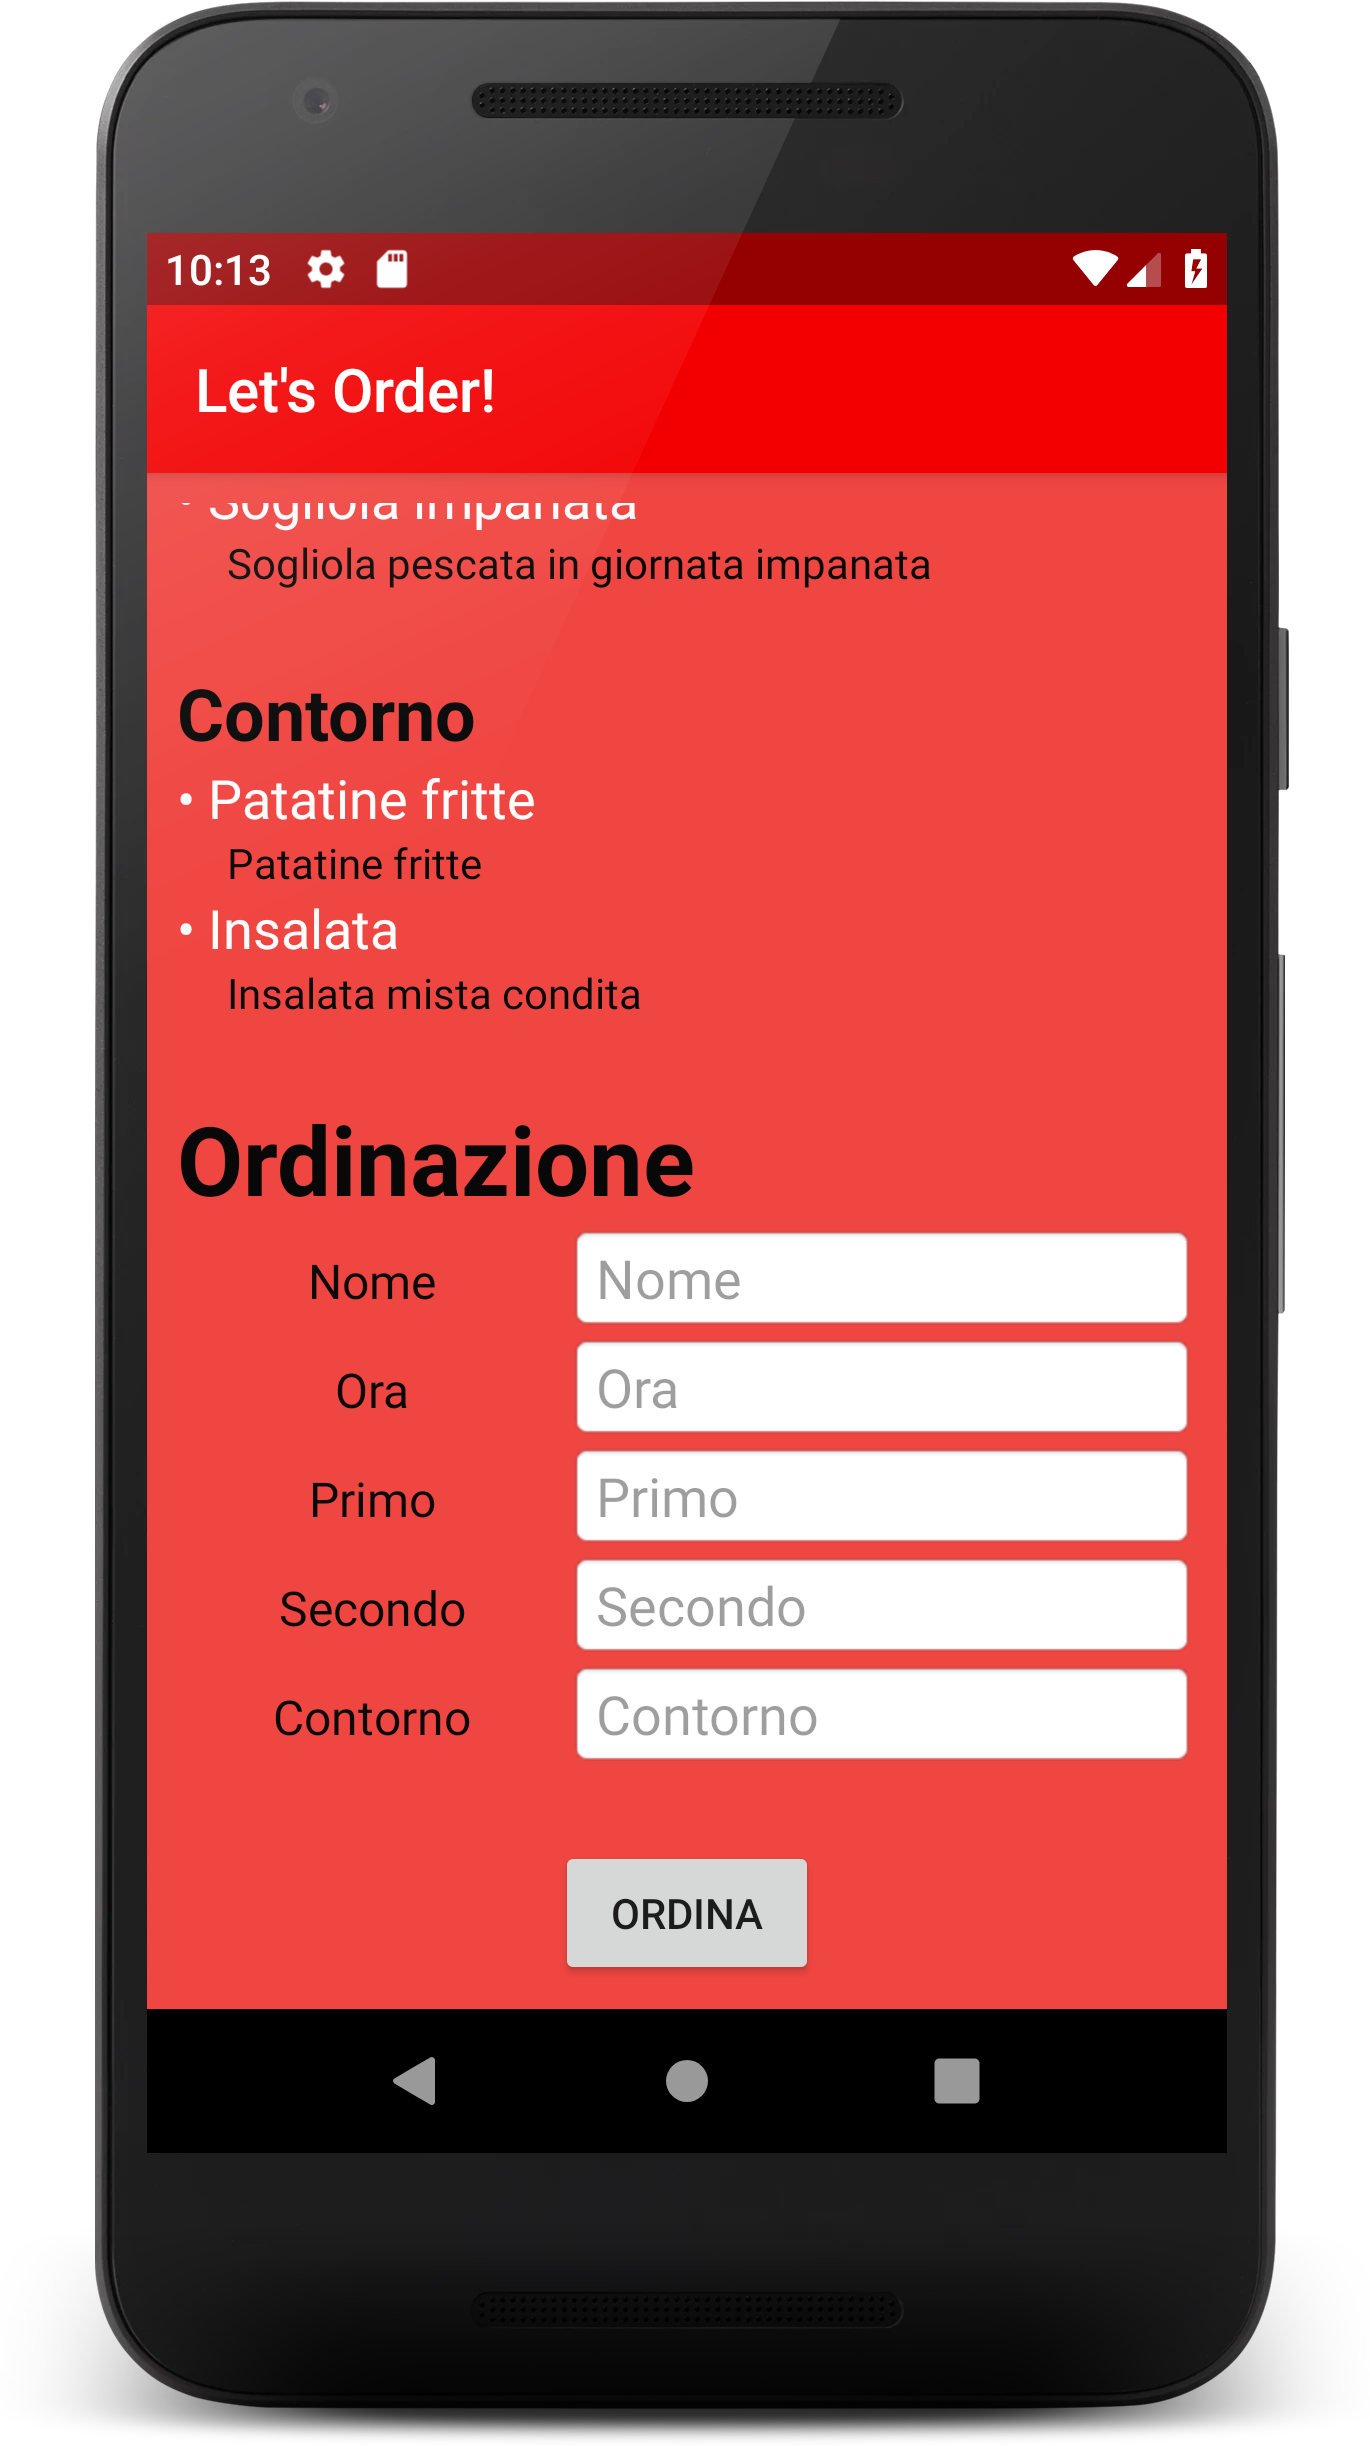
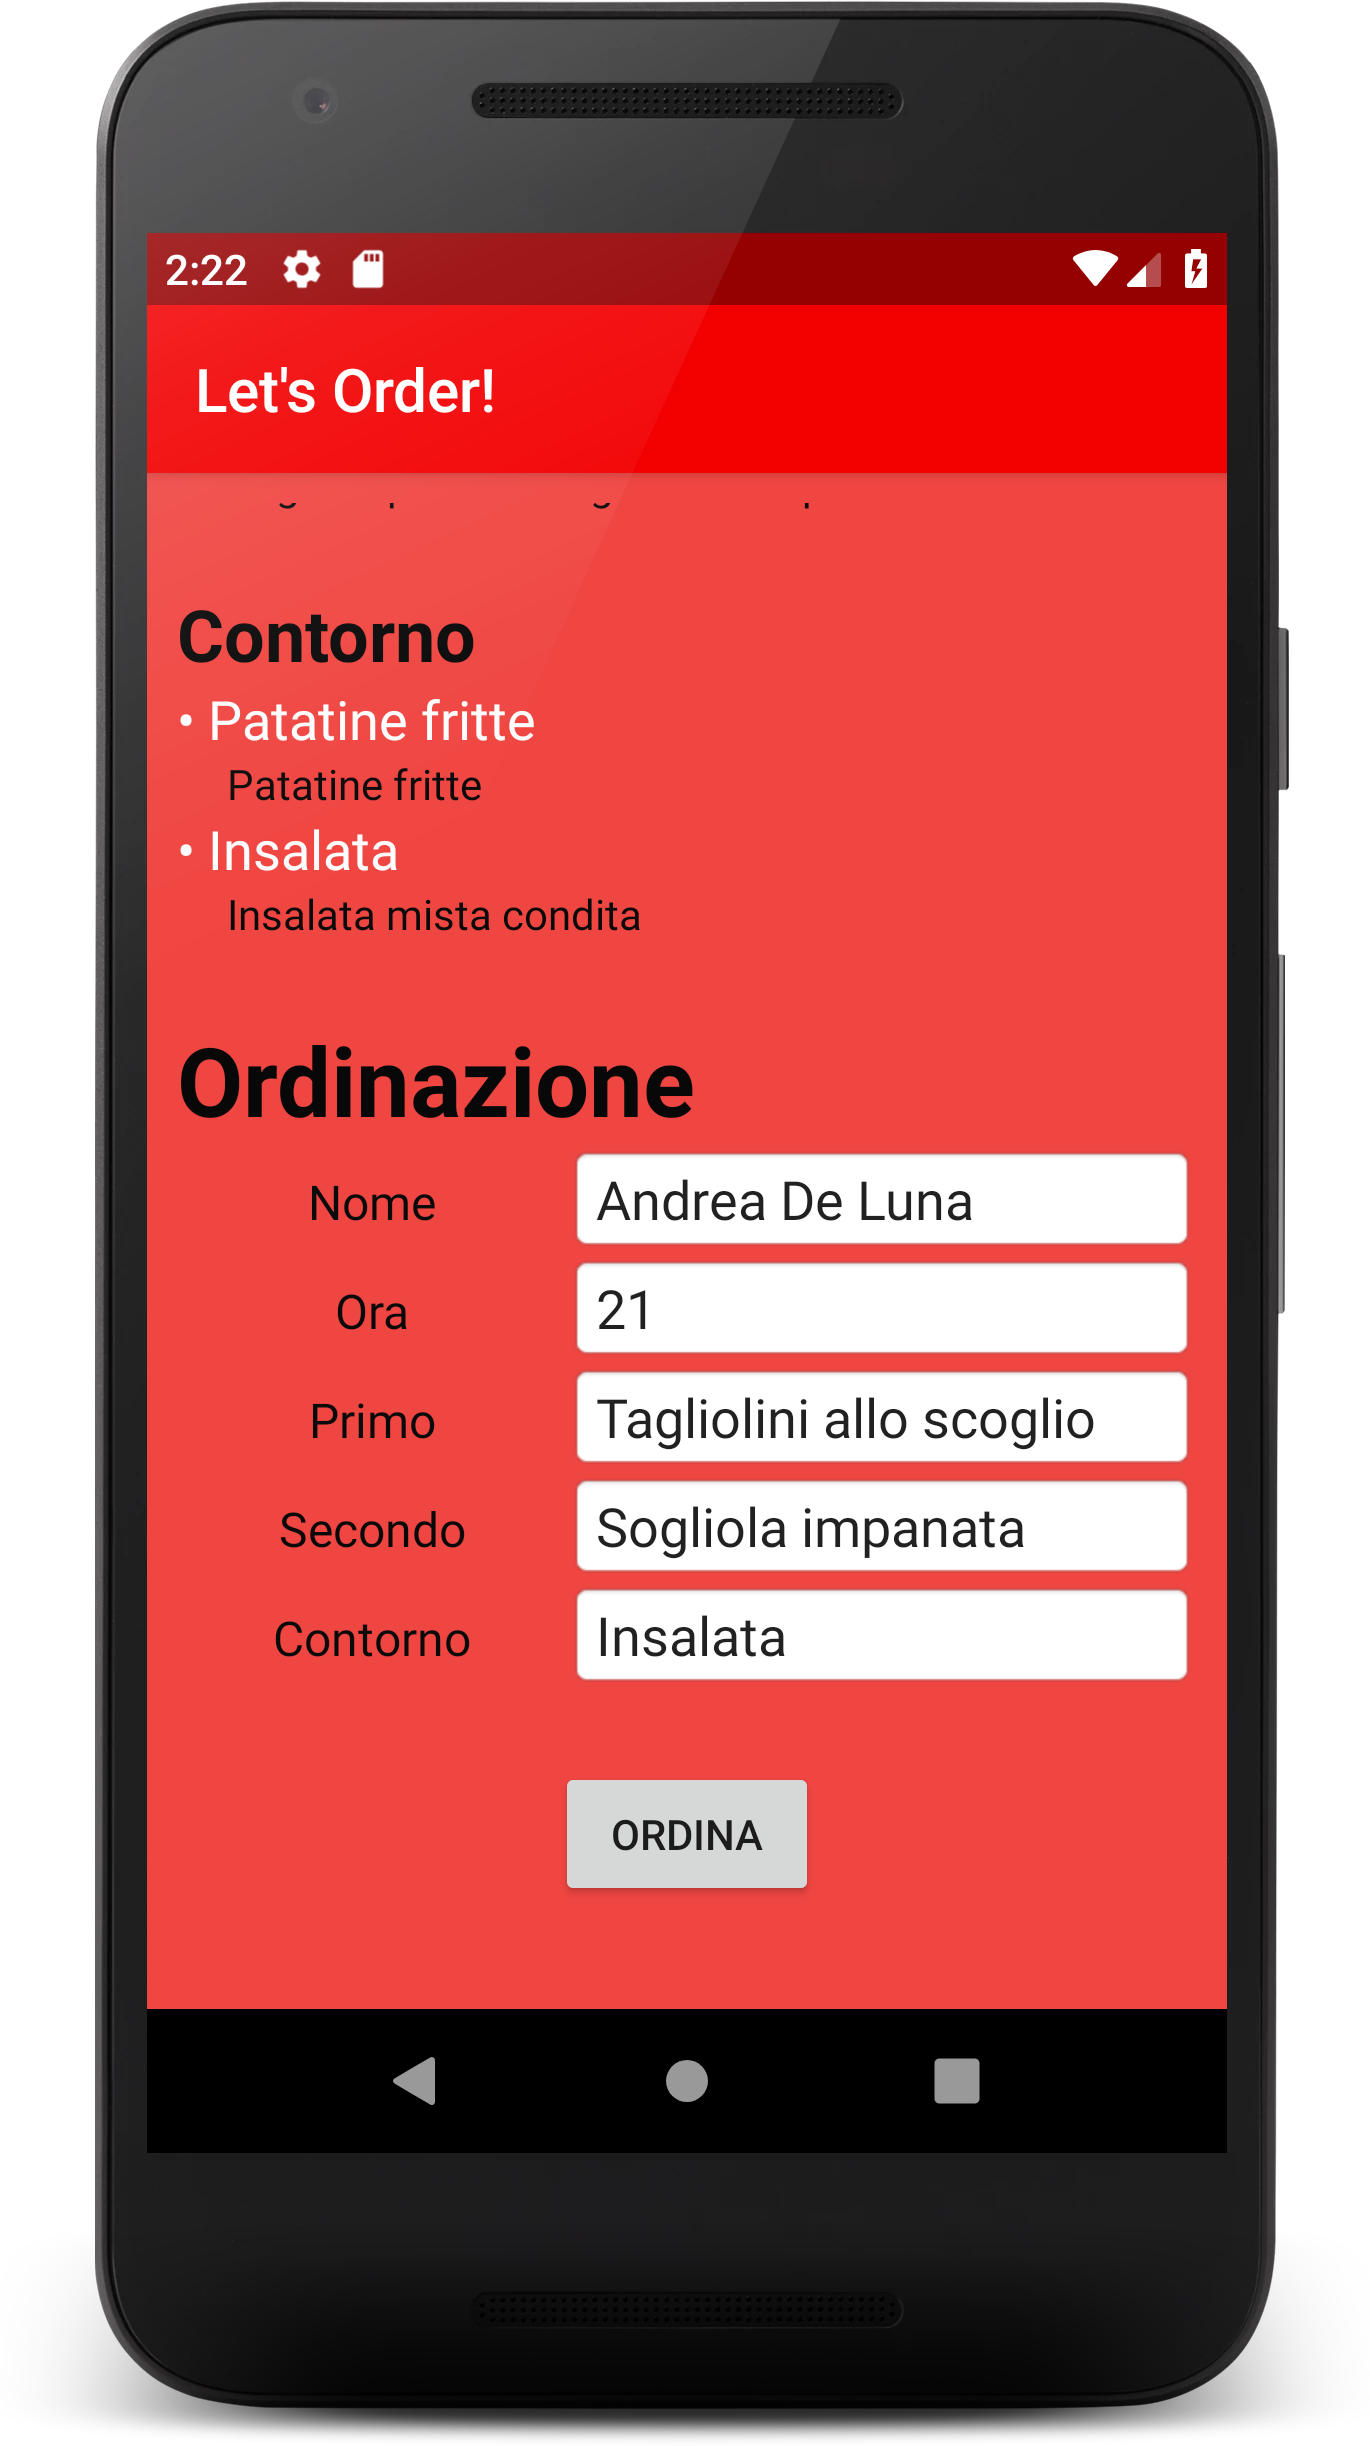
Implementato metodo POST dall'App all'API

Changed region(s): [[0.1226, 0.1864, 0.8891, 0.8078], [0.1226, 0.0932, 0.3066, 0.1243]]

diff --git a/LetsOrder/app/src/main/java/com/adeluna/letsorder/PrenotazioneActivity.java b/LetsOrder/app/src/main/java/com/adeluna/letsorder/PrenotazioneActivity.java
@@ -2,14 +2,29 @@ package com.adeluna.letsorder;
 
 import androidx.appcompat.app.AppCompatActivity;
 
+import android.content.Context;
 import android.content.Intent;
+import android.net.ConnectivityManager;
+import android.net.NetworkInfo;
+import android.os.AsyncTask;
 import android.os.Bundle;
 import android.util.Log;
 import android.view.View;
 import android.widget.EditText;
+import android.widget.Toast;
 
 import com.google.firebase.database.DatabaseReference;
 import com.google.firebase.database.FirebaseDatabase;
+
+import org.json.JSONException;
+import org.json.JSONObject;
+
+import java.io.BufferedWriter;
+import java.io.IOException;
+import java.io.OutputStream;
+import java.io.OutputStreamWriter;
+import java.net.HttpURLConnection;
+import java.net.URL;
 
 public class PrenotazioneActivity extends AppCompatActivity {
 
@@ -24,13 +39,26 @@ public class PrenotazioneActivity extends AppCompatActivity {
     EditText etSecondo;
     EditText etContorno;
 
+    String nome;
+    String luogo;
+
     @Override
     protected void onCreate(Bundle savedInstanceState) {
         super.onCreate(savedInstanceState);
         setContentView(R.layout.activity_prenotazione);
 
-        initFirebase();
+        Intent intent = getIntent();
+        nome = intent.getExtras().getString("nome");
+        luogo = intent.getExtras().getString("luogo");
+
+        nome = nome.replaceAll("\\s+","");
+        luogo = luogo.replaceAll("\\s+","");
+
+
         initUI();
+        initFirebase();
+
+        checkNetworkConnection();
 
     }
 
@@ -52,22 +80,95 @@ public class PrenotazioneActivity extends AppCompatActivity {
     }
 
 
-    public void inviaMessaggio(View view) {
+    // check network connection
+    public boolean checkNetworkConnection() {
+        ConnectivityManager connMgr = (ConnectivityManager)
+                getSystemService(Context.CONNECTIVITY_SERVICE);
 
-        Log.i(TAG, "Click su Invia Messaggio");
+        NetworkInfo networkInfo = connMgr.getActiveNetworkInfo();
+        boolean isConnected = false;
+        if (networkInfo != null && (isConnected = networkInfo.isConnected())) {
+            // show "Connected" & type of network "WIFI or MOBILE"
+            Log.i("Connessione","Connesso");
 
-        // Write a message to the database
+
+
+        } else {
+            // show "Not Connected"
+            Log.i("Connessione","Non connesso");
+        }
+
+        return isConnected;
+    }
+
+
+
+    private String httpPost(String myUrl) throws IOException, JSONException {
+        String result = "";
+
+        URL url = new URL(myUrl);
+
+        // 1. create HttpURLConnection
+        HttpURLConnection conn = (HttpURLConnection) url.openConnection();
+        conn.setRequestMethod("POST");
+        conn.setRequestProperty("Content-Type", "application/json; charset=utf-8");
+
+        // 2. build JSON object
+        JSONObject jsonObject = buidJsonObject();
+
+        // 3. add JSON content to POST request body
+        setPostRequestContent(conn, jsonObject);
+
+        // 4. make POST request to the given URL
+        conn.connect();
+
+        // 5. return response message
+        return conn.getResponseMessage()+"";
+
+    }
+
+
+    private class HTTPAsyncTask extends AsyncTask<String, Void, String> {
+        @Override
+        protected String doInBackground(String... urls) {
+            // params comes from the execute() call: params[0] is the url.
+            try {
+                try {
+                    return httpPost(urls[0]);
+                } catch (JSONException e) {
+                    e.printStackTrace();
+                    return "Error!";
+                }
+            } catch (IOException e) {
+                return "Unable to retrieve web page. URL may be invalid.";
+            }
+        }
+        // onPostExecute displays the results of the AsyncTask.
+        @Override
+        protected void onPostExecute(String result) {
+            Log.i("OnPostExecute", result);
+        }
+    }
+
+
+    public void send(View view) {
+
+        Toast.makeText(this, "Ordinazione presa in carico", Toast.LENGTH_SHORT).show();
 
         DatabaseReference myRef = mDatabase.getReference();
 
-        myRef.child("Utenti").child(etNome.getText().toString()).child("Nome").setValue(etNome.getText().toString());
-        myRef.child("Utenti").child(etNome.getText().toString()).child("Ora").setValue(etOra.getText().toString());
-        myRef.child("Utenti").child(etNome.getText().toString()).child("Primo").setValue(etPrimo.getText().toString());
-        myRef.child("Utenti").child(etNome.getText().toString()).child("Secondo").setValue(etSecondo.getText().toString());
-        myRef.child("Utenti").child(etNome.getText().toString()).child("Contorno").setValue(etContorno.getText().toString());
+        myRef.child("Utenti").child(etNome.getText().toString()).child("nome").setValue(etNome.getText().toString());
+        myRef.child("Utenti").child(etNome.getText().toString()).child("ora").setValue(etOra.getText().toString());
+        myRef.child("Utenti").child(etNome.getText().toString()).child("primo").setValue(etPrimo.getText().toString());
+        myRef.child("Utenti").child(etNome.getText().toString()).child("secondo").setValue(etSecondo.getText().toString());
+        myRef.child("Utenti").child(etNome.getText().toString()).child("contorno").setValue(etContorno.getText().toString());
 
 
-
+        // perform HTTP POST request
+        if(checkNetworkConnection())
+            new HTTPAsyncTask().execute("https://letsorderapi.glitch.me/?tipo=diretto&lista=" + nome + "" + luogo + "");
+        else
+            Toast.makeText(this, "Non connesso!", Toast.LENGTH_SHORT).show();
 
 
         Intent intent = new Intent(PrenotazioneActivity.this, RiepilogoActivity.class);
@@ -81,5 +182,30 @@ public class PrenotazioneActivity extends AppCompatActivity {
         startActivity(intent);
 
     }
+
+    private JSONObject buidJsonObject() throws JSONException {
+
+        JSONObject jsonObject = new JSONObject("ordinazione");
+        jsonObject.accumulate("nome", etNome.getText().toString());
+        jsonObject.accumulate("ora",  etOra.getText().toString());
+        jsonObject.accumulate("primo",  etPrimo.getText().toString());
+        jsonObject.accumulate("secondo",  etSecondo.getText().toString());
+        jsonObject.accumulate("contorno",  etContorno.getText().toString());
+
+        return jsonObject;
+    }
+
+    private void setPostRequestContent(HttpURLConnection conn, JSONObject jsonObject) throws IOException {
+
+        OutputStream os = conn.getOutputStream();
+        BufferedWriter writer = new BufferedWriter(new OutputStreamWriter(os, "UTF-8"));
+        writer.write(jsonObject.toString());
+        Log.i(MainActivity.class.toString(), jsonObject.toString());
+        writer.flush();
+        writer.close();
+        os.close();
+    }
+
+
 
 }

diff --git a/LetsOrder/app/src/main/java/com/adeluna/letsorder/RistoranteDatiActivity.java b/LetsOrder/app/src/main/java/com/adeluna/letsorder/RistoranteDatiActivity.java
@@ -67,9 +67,11 @@ public class RistoranteDatiActivity extends AppCompatActivity {
 
     public void prenotazioneRist(View view){
 
-        //finish();
-        startActivity(new Intent(RistoranteDatiActivity.this, PrenotazioneActivity.class));
-
+        Intent intent = new Intent(RistoranteDatiActivity.this, PrenotazioneActivity.class);
+        intent.putExtra("nome", nome);
+        intent.putExtra("luogo", luogo);
+        finish();
+        startActivity(intent);
     }
 
 

diff --git a/LetsOrderAPI/README.md b/LetsOrderAPI/README.md
@@ -23,20 +23,20 @@ Nel caso in cui l'utente richieda la connessione diretta al ristorante, l'array 
 
     * Dati ristorante
 
-    <div align="center"><a><img src='https://raw.githubusercontent.com/andreadeluna/ProgettoPDGT/master/img/dati_ristorante.png' height='400' alt='icon'/></a></div>
+    <div align="center"><a><img src='https://raw.githubusercontent.com/andreadeluna/ProgettoPDGT/master/img/dati_ristorante.png' height='200' alt='icon'/></a></div>
 
 
     * Menù
 
-    <div align="center"><a><img src='https://raw.githubusercontent.com/andreadeluna/ProgettoPDGT/master/img/menu_ristorante.png' height='400' alt='icon'/></a></div>
+    <div align="center"><a><img src='https://raw.githubusercontent.com/andreadeluna/ProgettoPDGT/master/img/menu_ristorante.png' height='200' alt='icon'/></a></div>
 
 
     * Orari
 
-    <div align="center"><a><img src='https://raw.githubusercontent.com/andreadeluna/ProgettoPDGT/master/img/orari_ristorante.png' height='400' alt='icon'/></a></div>
+    <div align="center"><a><img src='https://raw.githubusercontent.com/andreadeluna/ProgettoPDGT/master/img/orari_ristorante.png' height='200' alt='icon'/></a></div>
 
 
     * Feedback
 
-    <div align="center"><a><img src='https://raw.githubusercontent.com/andreadeluna/ProgettoPDGT/master/img/recensioni_ristorante.png' height='400' alt='icon'/></a></div>
+    <div align="center"><a><img src='https://raw.githubusercontent.com/andreadeluna/ProgettoPDGT/master/img/recensioni_ristorante.png' height='200' alt='icon'/></a></div>
 
